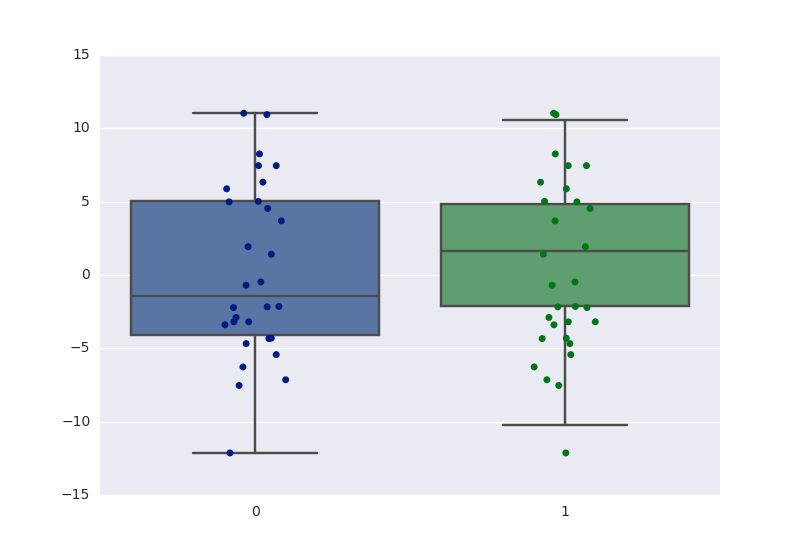
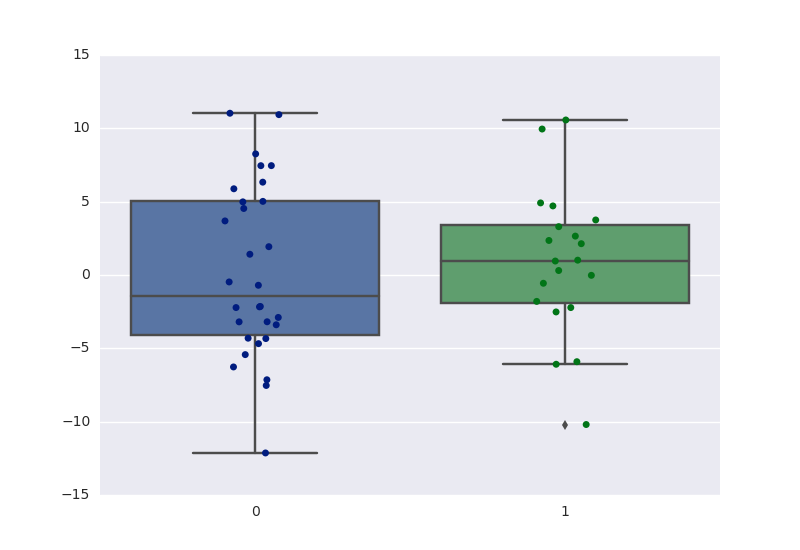
chap04 エクササイズをPythonに書き換え

diff --git a/chap04/exercise/ex5.py b/chap04/exercise/ex5.py
@@ -1,0 +1,26 @@
+#! -*- coding: utf-8 -*-
+import numpy as np
+import pystan
+
+np.random.seed(123)
+N1 = 30
+N2 = 20
+Y1 = np.random.normal(loc=0.0, scale=5.0, size=N1)
+Y2 = np.random.normal(loc=1.0, scale=4.0, size=N2)
+
+data = {'N1': N1, 'N2': N2, 'Y1': Y1, 'Y2': Y2}
+
+stanmodel = pystan.StanModel(file='ex5.stan')
+fit = stanmodel.sampling(data=data, seed=1234)
+ms = fit.extract()
+
+print(np.mean(ms['mu1'] < ms['mu2']))
+# library(rstan)
+
+# source('generate-data.R')
+
+# data <- list(N1=N1, N2=N2, Y1=Y1, Y2=Y2)
+# fit <- stan(file='ex5.stan', data=data, seed=1234)
+
+# ms <- extract(fit)
+# prob <- mean(ms$mu1 < ms$mu2)  #=> 0.9457

diff --git a/chap04/exercise/ex3ex4.py b/chap04/exercise/ex3ex4.py
@@ -1,0 +1,26 @@
+#! -*- coding: utf-8 -*-
+import numpy as np
+import pystan
+
+np.random.seed(123)
+N1 = 30
+N2 = 20
+Y1 = np.random.normal(loc=0.0, scale=5.0, size=N1)
+Y2 = np.random.normal(loc=1.0, scale=4.0, size=N2)
+
+data = {'N1': N1, 'N2': N2, 'Y1': Y1, 'Y2': Y2}
+
+# library(rstan)
+
+# source('generate-data.R')
+
+# data <- list(N1=N1, N2=N2, Y1=Y1, Y2=Y2)
+# fit <- stan(file='ex3.stan', data=data, seed=1234)
+
+# save.image('result-ex3.RData')
+
+stanmodel = pystan.StanModel(file='ex3.stan')
+fit = stanmodel.sampling(data=data, seed=1234)
+ms = fit.extract()
+
+print(np.mean(ms['mu1'] < ms['mu2']))

diff --git a/chap04/exercise/ex1.py b/chap04/exercise/ex1.py
@@ -7,10 +7,10 @@ np.random.seed(123)
 N1 = 30
 N2 = 20
 Y1 = np.random.normal(loc=0.0, scale=5.0, size=N1)
-Y2 = np.random.normal(loc=1.0, scale=4.0, size=N1)
+Y2 = np.random.normal(loc=1.0, scale=4.0, size=N2)
 
 sns.boxplot(data=[Y1, Y2])
-sns.stripplot(data=[Y1, Y1], jitter=True, palette=sns.color_palette('dark'))
+sns.stripplot(data=[Y1, Y2], jitter=True, palette=sns.color_palette('dark'))
 
 plt.savefig('fig-ex1.png')
 

diff --git a/chap04/exercise/generate-data.py b/chap04/exercise/generate-data.py
@@ -1,0 +1,14 @@
+# -*- coding: utf-8 -*-
+import numpy as np
+
+np.random.seed(123)
+N1 = 30
+N2 = 20
+Y1 = np.random.normal(loc=0.0, scale=5.0, size=N1)
+Y2 = np.random.normal(loc=1.0, scale=4.0, size=N2)
+
+# set.seed(123)
+# N1 <- 30
+# N2 <- 20
+# Y1 <- rnorm(n=N1, mean=0, sd=5)
+# Y2 <- rnorm(n=N2, mean=1, sd=4)
